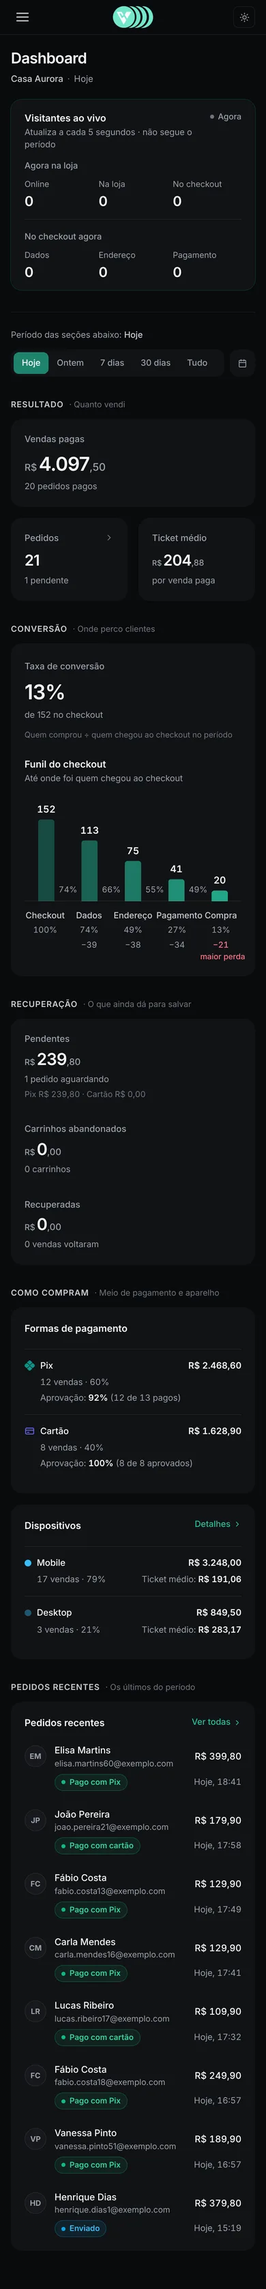
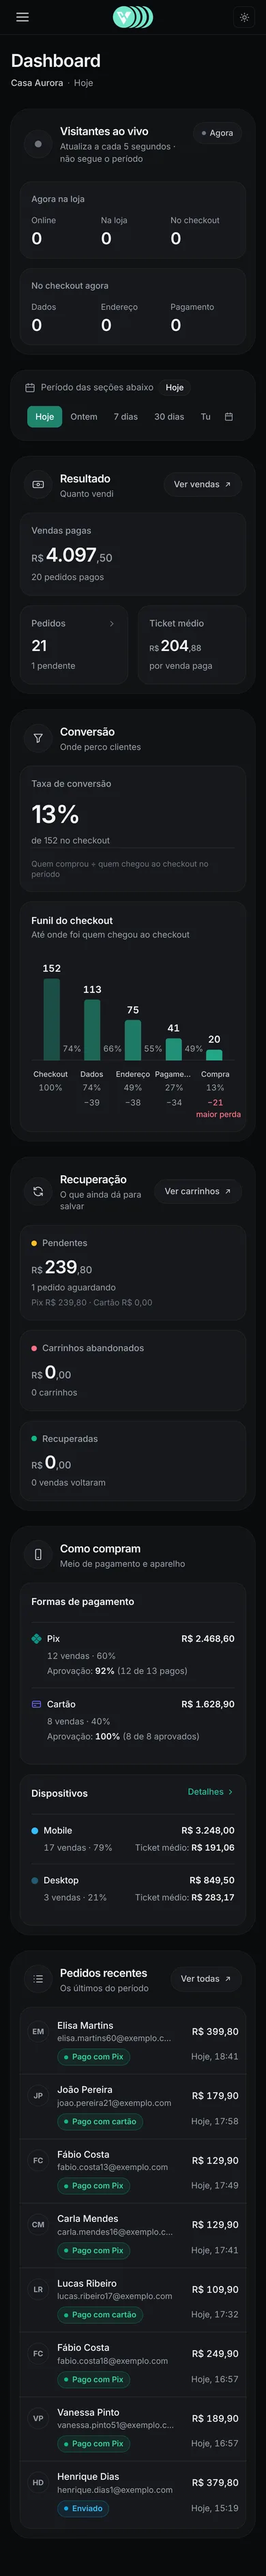
Dashboard do lojista: seções em caixas, com mais respiro
- Cada seção (Resultado, Conversão, Recuperação, Como compram, Pedidos
  recentes) vira uma caixa própria com ícone, título, pergunta e atalho
  (Ver vendas, Ver carrinhos, Ver todas); os cartões ficam aninhados
- Visitantes ao vivo e o filtro de período também em caixas
- Recuperação com marcador de cor por tipo (pendente, perdido, recuperado)
- Pedidos recentes sem título duplicado
- Respiro menor no celular para o funil caber sem sobrepor os nomes

Claude-Session: https://claude.ai/code/session_01Mj6yowmnasuG43TB7WhMV6

diff --git a/index.html b/index.html
@@ -38,7 +38,7 @@ main{padding:22px 28px 60px;min-width:0}
 <main><div class="top"><h1 id="t"></h1><span class="ver" id="v" hidden></span><span class="rota" id="r"></span><div class="nav"><button id="ant">← Anterior</button><button id="prox">Próxima →</button></div></div>
 <div class="shot" id="s"><img id="i" alt=""></div><div class="dica">Telas com chave na coluna têm duas versões: ligada mostra o layout novo, desligada o antigo. Para pedir um ajuste, diga o nome da tela e o que mudar.</div></main></div>
 <script>
-const D=[{"id": "painel-dashboard", "grupo": "Painel do lojista", "titulo": "Dashboard", "rota": "/painel", "img": "telas/painel-dashboard.webp", "w": 1440, "h": 2191, "mobile": false, "antigo": {"img": "telas/painel-dashboard-antigo.webp", "w": 1440, "h": 1708}}, {"id": "painel-inicio", "grupo": "Painel do lojista", "titulo": "Início", "rota": "/painel/inicio", "img": "telas/painel-inicio.webp", "w": 1440, "h": 1024, "mobile": false}, {"id": "painel-vendas", "grupo": "Painel do lojista", "titulo": "Vendas", "rota": "/painel/vendas", "img": "telas/painel-vendas.webp", "w": 1440, "h": 1024, "mobile": false}, {"id": "painel-carrinhos", "grupo": "Painel do lojista", "titulo": "Carrinhos abandonados", "rota": "/painel/carrinhos", "img": "telas/painel-carrinhos.webp", "w": 1440, "h": 1038, "mobile": false}, {"id": "painel-desempenho", "grupo": "Painel do lojista", "titulo": "Desempenho", "rota": "/painel/desempenho", "img": "telas/painel-desempenho.webp", "w": 1440, "h": 1024, "mobile": false}, {"id": "painel-dispositivos", "grupo": "Painel do lojista", "titulo": "Dispositivos", "rota": "/painel/dispositivos", "img": "telas/painel-dispositivos.webp", "w": 1440, "h": 1024, "mobile": false}, {"id": "painel-produtos", "grupo": "Painel do lojista", "titulo": "Produtos", "rota": "/painel/produtos", "img": "telas/painel-produtos.webp", "w": 1440, "h": 1024, "mobile": false}, {"id": "painel-criptografia", "grupo": "Painel do lojista", "titulo": "Criptografia", "rota": "/painel/criptografia", "img": "telas/painel-criptografia.webp", "w": 1440, "h": 1090, "mobile": false}, {"id": "painel-cupons", "grupo": "Painel do lojista", "titulo": "Cupons", "rota": "/painel/cupons", "img": "telas/painel-cupons.webp", "w": 1440, "h": 1024, "mobile": false}, {"id": "painel-order-bump", "grupo": "Painel do lojista", "titulo": "Order bump", "rota": "/painel/order-bump", "img": "telas/painel-order-bump.webp", "w": 1440, "h": 1024, "mobile": false}, {"id": "painel-provas-sociais", "grupo": "Painel do lojista", "titulo": "Provas sociais", "rota": "/painel/provas-sociais", "img": "telas/painel-provas-sociais.webp", "w": 1440, "h": 1024, "mobile": false}, {"id": "painel-personalizar", "grupo": "Painel do lojista", "titulo": "Personalizar checkout", "rota": "/painel/personalizar", "img": "telas/painel-personalizar.webp", "w": 1440, "h": 1024, "mobile": false}, {"id": "painel-pagamentos", "grupo": "Painel do lojista", "titulo": "Pagamentos", "rota": "/painel/pagamentos", "img": "telas/painel-pagamentos.webp", "w": 1440, "h": 1419, "mobile": false}, {"id": "painel-pixels", "grupo": "Painel do lojista", "titulo": "Pixels", "rota": "/painel/pixels", "img": "telas/painel-pixels.webp", "w": 1440, "h": 1024, "mobile": false}, {"id": "painel-emails", "grupo": "Painel do lojista", "titulo": "E-mails", "rota": "/painel/emails", "img": "telas/painel-emails.webp", "w": 1440, "h": 1715, "mobile": false}, {"id": "painel-webhooks", "grupo": "Painel do lojista", "titulo": "Webhooks", "rota": "/painel/webhooks", "img": "telas/painel-webhooks.webp", "w": 1440, "h": 1024, "mobile": false}, {"id": "painel-dominio", "grupo": "Painel do lojista", "titulo": "Domínio", "rota": "/painel/dominio", "img": "telas/painel-dominio.webp", "w": 1440, "h": 1024, "mobile": false}, {"id": "painel-shopify", "grupo": "Painel do lojista", "titulo": "Shopify", "rota": "/painel/shopify", "img": "telas/painel-shopify.webp", "w": 1440, "h": 1024, "mobile": false}, {"id": "painel-apps", "grupo": "Painel do lojista", "titulo": "Apps", "rota": "/painel/apps", "img": "telas/painel-apps.webp", "w": 1440, "h": 1024, "mobile": false}, {"id": "painel-taxas", "grupo": "Painel do lojista", "titulo": "Taxas", "rota": "/painel/taxas", "img": "telas/painel-taxas.webp", "w": 1440, "h": 1024, "mobile": false}, {"id": "painel-plano", "grupo": "Painel do lojista", "titulo": "Plano", "rota": "/painel/plano", "img": "telas/painel-plano.webp", "w": 1440, "h": 1024, "mobile": false}, {"id": "painel-seguranca", "grupo": "Painel do lojista", "titulo": "Segurança", "rota": "/painel/seguranca", "img": "telas/painel-seguranca.webp", "w": 1440, "h": 2548, "mobile": false}, {"id": "painel-configuracoes", "grupo": "Painel do lojista", "titulo": "Configurações", "rota": "/painel/configuracoes", "img": "telas/painel-configuracoes.webp", "w": 1440, "h": 1024, "mobile": false}, {"id": "painel-detalhe-venda", "grupo": "Painel do lojista", "titulo": "Detalhe da venda", "rota": "/painel/vendas/101044fc-720e-4f02-a70a-a1bbfcc3d4ec", "img": "telas/painel-detalhe-venda.webp", "w": 1440, "h": 1024, "mobile": false}, {"id": "painel-caixa-de-emails", "grupo": "Painel do lojista", "titulo": "Caixa de e-mails", "rota": "/painel/emails/caixa", "img": "telas/painel-caixa-de-emails.webp", "w": 1440, "h": 1090, "mobile": false}, {"id": "admin-visao-geral", "grupo": "Admin da plataforma", "titulo": "Visão geral", "rota": "/admin", "img": "telas/admin-inicio.webp", "w": 1440, "h": 1430, "mobile": false}, {"id": "admin-lojas", "grupo": "Admin da plataforma", "titulo": "Lojas", "rota": "/admin/lojas", "img": "telas/admin-lojas.webp", "w": 1440, "h": 900, "mobile": false}, {"id": "admin-usuarios", "grupo": "Admin da plataforma", "titulo": "Usuários", "rota": "/admin/usuarios", "img": "telas/admin-usuarios.webp", "w": 1440, "h": 900, "mobile": false}, {"id": "admin-clientes", "grupo": "Admin da plataforma", "titulo": "Clientes", "rota": "/admin/clientes", "img": "telas/admin-clientes.webp", "w": 1440, "h": 1958, "mobile": false}, {"id": "admin-transacoes", "grupo": "Admin da plataforma", "titulo": "Transações", "rota": "/admin/transacoes", "img": "telas/admin-transacoes.webp", "w": 1440, "h": 1994, "mobile": false}, {"id": "admin-taxas", "grupo": "Admin da plataforma", "titulo": "Taxas", "rota": "/admin/taxas", "img": "telas/admin-taxas.webp", "w": 1440, "h": 900, "mobile": false}, {"id": "admin-assinaturas", "grupo": "Admin da plataforma", "titulo": "Assinaturas", "rota": "/admin/assinaturas", "img": "telas/admin-assinaturas.webp", "w": 1440, "h": 900, "mobile": false}, {"id": "admin-relatorios", "grupo": "Admin da plataforma", "titulo": "Relatórios", "rota": "/admin/relatorios", "img": "telas/admin-relatorios.webp", "w": 1440, "h": 907, "mobile": false}, {"id": "admin-emails", "grupo": "Admin da plataforma", "titulo": "E-mails", "rota": "/admin/emails", "img": "telas/admin-emails.webp", "w": 1440, "h": 900, "mobile": false}, {"id": "admin-configuracoes", "grupo": "Admin da plataforma", "titulo": "Configurações", "rota": "/admin/configuracoes", "img": "telas/admin-configuracoes.webp", "w": 1440, "h": 1286, "mobile": false}, {"id": "celular-dashboard", "grupo": "Painel no celular", "titulo": "Dashboard", "rota": "/painel", "img": "telas/celular-dashboard.webp", "w": 390, "h": 3355, "mobile": true, "antigo": {"img": "telas/celular-dashboard-antigo.webp", "w": 390, "h": 2945}}, {"id": "celular-inicio", "grupo": "Painel no celular", "titulo": "Início", "rota": "/painel/inicio", "img": "telas/celular-inicio.webp", "w": 390, "h": 2208, "mobile": true}, {"id": "celular-vendas", "grupo": "Painel no celular", "titulo": "Vendas", "rota": "/painel/vendas", "img": "telas/celular-vendas.webp", "w": 390, "h": 1410, "mobile": true}, {"id": "acesso-login", "grupo": "Acesso", "titulo": "Login", "rota": "/login", "img": "telas/acesso-login.webp", "w": 1440, "h": 900, "mobile": false}];
+const D=[{"id": "painel-dashboard", "grupo": "Painel do lojista", "titulo": "Dashboard", "rota": "/painel", "img": "telas/painel-dashboard.webp", "w": 1440, "h": 2681, "mobile": false, "antigo": {"img": "telas/painel-dashboard-antigo.webp", "w": 1440, "h": 1708}}, {"id": "painel-inicio", "grupo": "Painel do lojista", "titulo": "Início", "rota": "/painel/inicio", "img": "telas/painel-inicio.webp", "w": 1440, "h": 1024, "mobile": false}, {"id": "painel-vendas", "grupo": "Painel do lojista", "titulo": "Vendas", "rota": "/painel/vendas", "img": "telas/painel-vendas.webp", "w": 1440, "h": 1024, "mobile": false}, {"id": "painel-carrinhos", "grupo": "Painel do lojista", "titulo": "Carrinhos abandonados", "rota": "/painel/carrinhos", "img": "telas/painel-carrinhos.webp", "w": 1440, "h": 1038, "mobile": false}, {"id": "painel-desempenho", "grupo": "Painel do lojista", "titulo": "Desempenho", "rota": "/painel/desempenho", "img": "telas/painel-desempenho.webp", "w": 1440, "h": 1024, "mobile": false}, {"id": "painel-dispositivos", "grupo": "Painel do lojista", "titulo": "Dispositivos", "rota": "/painel/dispositivos", "img": "telas/painel-dispositivos.webp", "w": 1440, "h": 1024, "mobile": false}, {"id": "painel-produtos", "grupo": "Painel do lojista", "titulo": "Produtos", "rota": "/painel/produtos", "img": "telas/painel-produtos.webp", "w": 1440, "h": 1024, "mobile": false}, {"id": "painel-criptografia", "grupo": "Painel do lojista", "titulo": "Criptografia", "rota": "/painel/criptografia", "img": "telas/painel-criptografia.webp", "w": 1440, "h": 1090, "mobile": false}, {"id": "painel-cupons", "grupo": "Painel do lojista", "titulo": "Cupons", "rota": "/painel/cupons", "img": "telas/painel-cupons.webp", "w": 1440, "h": 1024, "mobile": false}, {"id": "painel-order-bump", "grupo": "Painel do lojista", "titulo": "Order bump", "rota": "/painel/order-bump", "img": "telas/painel-order-bump.webp", "w": 1440, "h": 1024, "mobile": false}, {"id": "painel-provas-sociais", "grupo": "Painel do lojista", "titulo": "Provas sociais", "rota": "/painel/provas-sociais", "img": "telas/painel-provas-sociais.webp", "w": 1440, "h": 1024, "mobile": false}, {"id": "painel-personalizar", "grupo": "Painel do lojista", "titulo": "Personalizar checkout", "rota": "/painel/personalizar", "img": "telas/painel-personalizar.webp", "w": 1440, "h": 1024, "mobile": false}, {"id": "painel-pagamentos", "grupo": "Painel do lojista", "titulo": "Pagamentos", "rota": "/painel/pagamentos", "img": "telas/painel-pagamentos.webp", "w": 1440, "h": 1419, "mobile": false}, {"id": "painel-pixels", "grupo": "Painel do lojista", "titulo": "Pixels", "rota": "/painel/pixels", "img": "telas/painel-pixels.webp", "w": 1440, "h": 1024, "mobile": false}, {"id": "painel-emails", "grupo": "Painel do lojista", "titulo": "E-mails", "rota": "/painel/emails", "img": "telas/painel-emails.webp", "w": 1440, "h": 1715, "mobile": false}, {"id": "painel-webhooks", "grupo": "Painel do lojista", "titulo": "Webhooks", "rota": "/painel/webhooks", "img": "telas/painel-webhooks.webp", "w": 1440, "h": 1024, "mobile": false}, {"id": "painel-dominio", "grupo": "Painel do lojista", "titulo": "Domínio", "rota": "/painel/dominio", "img": "telas/painel-dominio.webp", "w": 1440, "h": 1024, "mobile": false}, {"id": "painel-shopify", "grupo": "Painel do lojista", "titulo": "Shopify", "rota": "/painel/shopify", "img": "telas/painel-shopify.webp", "w": 1440, "h": 1024, "mobile": false}, {"id": "painel-apps", "grupo": "Painel do lojista", "titulo": "Apps", "rota": "/painel/apps", "img": "telas/painel-apps.webp", "w": 1440, "h": 1024, "mobile": false}, {"id": "painel-taxas", "grupo": "Painel do lojista", "titulo": "Taxas", "rota": "/painel/taxas", "img": "telas/painel-taxas.webp", "w": 1440, "h": 1024, "mobile": false}, {"id": "painel-plano", "grupo": "Painel do lojista", "titulo": "Plano", "rota": "/painel/plano", "img": "telas/painel-plano.webp", "w": 1440, "h": 1024, "mobile": false}, {"id": "painel-seguranca", "grupo": "Painel do lojista", "titulo": "Segurança", "rota": "/painel/seguranca", "img": "telas/painel-seguranca.webp", "w": 1440, "h": 2548, "mobile": false}, {"id": "painel-configuracoes", "grupo": "Painel do lojista", "titulo": "Configurações", "rota": "/painel/configuracoes", "img": "telas/painel-configuracoes.webp", "w": 1440, "h": 1024, "mobile": false}, {"id": "painel-detalhe-venda", "grupo": "Painel do lojista", "titulo": "Detalhe da venda", "rota": "/painel/vendas/101044fc-720e-4f02-a70a-a1bbfcc3d4ec", "img": "telas/painel-detalhe-venda.webp", "w": 1440, "h": 1024, "mobile": false}, {"id": "painel-caixa-de-emails", "grupo": "Painel do lojista", "titulo": "Caixa de e-mails", "rota": "/painel/emails/caixa", "img": "telas/painel-caixa-de-emails.webp", "w": 1440, "h": 1090, "mobile": false}, {"id": "admin-visao-geral", "grupo": "Admin da plataforma", "titulo": "Visão geral", "rota": "/admin", "img": "telas/admin-inicio.webp", "w": 1440, "h": 1430, "mobile": false}, {"id": "admin-lojas", "grupo": "Admin da plataforma", "titulo": "Lojas", "rota": "/admin/lojas", "img": "telas/admin-lojas.webp", "w": 1440, "h": 900, "mobile": false}, {"id": "admin-usuarios", "grupo": "Admin da plataforma", "titulo": "Usuários", "rota": "/admin/usuarios", "img": "telas/admin-usuarios.webp", "w": 1440, "h": 900, "mobile": false}, {"id": "admin-clientes", "grupo": "Admin da plataforma", "titulo": "Clientes", "rota": "/admin/clientes", "img": "telas/admin-clientes.webp", "w": 1440, "h": 1958, "mobile": false}, {"id": "admin-transacoes", "grupo": "Admin da plataforma", "titulo": "Transações", "rota": "/admin/transacoes", "img": "telas/admin-transacoes.webp", "w": 1440, "h": 1994, "mobile": false}, {"id": "admin-taxas", "grupo": "Admin da plataforma", "titulo": "Taxas", "rota": "/admin/taxas", "img": "telas/admin-taxas.webp", "w": 1440, "h": 900, "mobile": false}, {"id": "admin-assinaturas", "grupo": "Admin da plataforma", "titulo": "Assinaturas", "rota": "/admin/assinaturas", "img": "telas/admin-assinaturas.webp", "w": 1440, "h": 900, "mobile": false}, {"id": "admin-relatorios", "grupo": "Admin da plataforma", "titulo": "Relatórios", "rota": "/admin/relatorios", "img": "telas/admin-relatorios.webp", "w": 1440, "h": 907, "mobile": false}, {"id": "admin-emails", "grupo": "Admin da plataforma", "titulo": "E-mails", "rota": "/admin/emails", "img": "telas/admin-emails.webp", "w": 1440, "h": 900, "mobile": false}, {"id": "admin-configuracoes", "grupo": "Admin da plataforma", "titulo": "Configurações", "rota": "/admin/configuracoes", "img": "telas/admin-configuracoes.webp", "w": 1440, "h": 1286, "mobile": false}, {"id": "celular-dashboard", "grupo": "Painel no celular", "titulo": "Dashboard", "rota": "/painel", "img": "telas/celular-dashboard.webp", "w": 390, "h": 3775, "mobile": true, "antigo": {"img": "telas/celular-dashboard-antigo.webp", "w": 390, "h": 2945}}, {"id": "celular-inicio", "grupo": "Painel no celular", "titulo": "Início", "rota": "/painel/inicio", "img": "telas/celular-inicio.webp", "w": 390, "h": 2208, "mobile": true}, {"id": "celular-vendas", "grupo": "Painel no celular", "titulo": "Vendas", "rota": "/painel/vendas", "img": "telas/celular-vendas.webp", "w": 390, "h": 1410, "mobile": true}, {"id": "acesso-login", "grupo": "Acesso", "titulo": "Login", "rota": "/login", "img": "telas/acesso-login.webp", "w": 1440, "h": 900, "mobile": false}];
 const st={};D.forEach(d=>{if(d.antigo)st[d.id]=true});
 try{const s=JSON.parse(localStorage.getItem('voxdash-layout')||'{}');for(const k in s)if(k in st)st[k]=!!s[k]}catch(e){}
 function save(){try{localStorage.setItem('voxdash-layout',JSON.stringify(st))}catch(e){}}

diff --git a/src/components/painel/dashboard/DashboardView.tsx b/src/components/painel/dashboard/DashboardView.tsx
@@ -59,11 +59,11 @@ export default function DashboardView({ data }: { data: DashboardData }) {
 
   return (
     <PeriodTransition>
-      <div className="animate-fade-up">
+      <div className="animate-fade-up space-y-6">
         <ReconcileOnMount />
 
-        <header className="pb-5">
-          <h1 className="text-[22px] font-semibold tracking-tight text-hi">Dashboard</h1>
+        <header className="pb-1">
+          <h1 className="text-[26px] font-semibold tracking-tight text-hi">Dashboard</h1>
           <p className="mt-1 truncate text-[13px] text-low">
             <span className="font-medium text-mid">{data.storeName}</span>
             <span aria-hidden className="mx-1.5 text-dim">·</span>
@@ -74,16 +74,18 @@ export default function DashboardView({ data }: { data: DashboardData }) {
         {/* ── Agora ── */}
         <LiveVisitors variant="strip" />
 
-        {/* ── Filtro de período: governa todas as seções abaixo ── */}
-        <div className="mt-8 flex flex-wrap items-center justify-between gap-x-6 gap-y-3 border-t border-line pt-6">
-          <p className="text-[12.5px] text-low">
-            Período das seções abaixo: <span className="font-medium text-mid">{data.period.label}</span>
+        {/* ── Filtro de período: governa todas as caixas abaixo ── */}
+        <div className="flex flex-wrap items-center justify-between gap-x-6 gap-y-3 rounded-[22px] bg-card px-5 py-3.5 ring-1 ring-line">
+          <p className="flex items-center gap-2 text-[13px] text-low">
+            <Icon name="calendar" />
+            Período das seções abaixo
+            <span className="rounded-full bg-soft px-2.5 py-0.5 text-[12px] font-medium text-hi ring-1 ring-line">{data.period.label}</span>
           </p>
           <PeriodControl active={data.period.key} from={data.period.from} to={data.period.to} />
         </div>
 
         {/* ── Resultado ── */}
-        <Section title="Resultado" question="Quanto vendi">
+        <Box icon="cash" title="Resultado" question="Quanto vendi" link={{ href: "/painel/vendas", label: "Ver vendas" }}>
           <PendingArea>
             <div className="grid grid-cols-2 gap-4 md:grid-cols-[minmax(0,1.6fr)_minmax(0,1fr)_minmax(0,1fr)]">
               <Kpi
@@ -106,64 +108,67 @@ export default function DashboardView({ data }: { data: DashboardData }) {
               />
             </div>
           </PendingArea>
-        </Section>
+        </Box>
 
         {/* ── Conversão: a taxa ao lado do funil que a explica ── */}
-        <Section title="Conversão" question="Onde perco clientes">
+        <Box icon="funnel" title="Conversão" question="Onde perco clientes">
           <PendingArea>
-            <section className="grid min-w-0 gap-6 rounded-2xl bg-card p-5 lg:grid-cols-[200px_minmax(0,1fr)]">
-              <div className="min-w-0 lg:border-r lg:border-line lg:pr-6">
+            <div className="grid gap-4 lg:grid-cols-[230px_minmax(0,1fr)]">
+              <div className="flex min-w-0 flex-col rounded-2xl bg-soft p-4 ring-1 ring-line sm:p-5">
                 <span className="text-[13px] font-medium text-low" title="Quem comprou ÷ quem chegou ao checkout no período">
                   Taxa de conversão
                 </span>
-                <div className="mt-3 whitespace-nowrap text-[30px] font-semibold leading-none tracking-[-0.025em] text-hi">
+                <div className="mt-4 whitespace-nowrap text-[36px] font-semibold leading-none tracking-[-0.03em] text-hi">
                   {conversion === null ? "—" : <AnimatedNumber value={conversion} format="pct" />}
                 </div>
-                <p className="mt-2.5 text-[12.5px] text-low">{base > 0 ? `de ${base} no checkout` : "Nenhum checkout"}</p>
-                <p className="mt-3 text-[11.5px] leading-snug text-dim">Quem comprou ÷ quem chegou ao checkout no período</p>
+                <p className="mt-3 text-[12.5px] text-low">{base > 0 ? `de ${base} no checkout` : "Nenhum checkout"}</p>
+                <p className="mt-auto border-t border-line pt-4 text-[11.5px] leading-snug text-dim">
+                  Quem comprou ÷ quem chegou ao checkout no período
+                </p>
               </div>
-              <div className="min-w-0">
-                <h2 className="text-[14px] font-semibold text-hi">Funil do checkout</h2>
+              <div className="min-w-0 rounded-2xl bg-soft p-4 ring-1 ring-line sm:p-5">
+                <h3 className="text-[14px] font-semibold text-hi">Funil do checkout</h3>
                 <p className="mt-0.5 text-[12.5px] text-low">Até onde foi quem chegou ao checkout</p>
-                <div className="mt-5">
+                <div className="mt-6">
                   <Funnel stages={data.funnel} />
                   {base === 0 && <p className="mt-4 text-[12.5px] text-low">Nenhum checkout iniciado no período.</p>}
                 </div>
               </div>
-            </section>
+            </div>
           </PendingArea>
-        </Section>
+        </Box>
 
         {/* ── Recuperação: dinheiro parado e o que voltou ── */}
-        <Section title="Recuperação" question="O que ainda dá para salvar">
+        <Box icon="refresh" title="Recuperação" question="O que ainda dá para salvar" link={{ href: "/painel/carrinhos", label: "Ver carrinhos" }}>
           <PendingArea>
-            <section className="rounded-2xl bg-card p-5">
-              <h2 className="sr-only">Recuperação de vendas</h2>
-              <div className="grid gap-x-10 gap-y-8 md:grid-cols-3">
-                <Recovery
-                  title="Pendentes"
-                  cents={pending.cents}
-                  note={`${pending.count} ${plural(pending.count, "pedido aguardando", "pedidos aguardando")}`}
-                  detail={pending.count > 0 ? `Pix ${brl(pending.pixCents)} · Cartão ${brl(pending.cardCents)}` : undefined}
-                />
-                <Recovery
-                  title="Carrinhos abandonados"
-                  cents={abandoned.cents}
-                  note={`${abandoned.count} ${plural(abandoned.count, "carrinho", "carrinhos")}`}
-                />
-                <Recovery
-                  title="Recuperadas"
-                  cents={recovered.cents}
-                  note={`${recovered.count} ${plural(recovered.count, "venda voltou", "vendas voltaram")}`}
-                  detail={recovered.count > 0 ? `De carrinho ${brl(recovered.cartCents)} · De Pix ${brl(recovered.pixCents)}` : undefined}
-                />
-              </div>
-            </section>
+            <h3 className="sr-only">Recuperação de vendas</h3>
+            <div className="grid gap-4 md:grid-cols-3">
+              <Recovery
+                title="Pendentes"
+                tone="warn"
+                cents={pending.cents}
+                note={`${pending.count} ${plural(pending.count, "pedido aguardando", "pedidos aguardando")}`}
+                detail={pending.count > 0 ? `Pix ${brl(pending.pixCents)} · Cartão ${brl(pending.cardCents)}` : undefined}
+              />
+              <Recovery
+                title="Carrinhos abandonados"
+                tone="lost"
+                cents={abandoned.cents}
+                note={`${abandoned.count} ${plural(abandoned.count, "carrinho", "carrinhos")}`}
+              />
+              <Recovery
+                title="Recuperadas"
+                tone="ok"
+                cents={recovered.cents}
+                note={`${recovered.count} ${plural(recovered.count, "venda voltou", "vendas voltaram")}`}
+                detail={recovered.count > 0 ? `De carrinho ${brl(recovered.cartCents)} · De Pix ${brl(recovered.pixCents)}` : undefined}
+              />
+            </div>
           </PendingArea>
-        </Section>
+        </Box>
 
         {/* ── Como compram: meio de pagamento e aparelho ── */}
-        <Section title="Como compram" question="Meio de pagamento e aparelho">
+        <Box icon="device" title="Como compram" question="Meio de pagamento e aparelho">
           <PendingArea>
             <div className="grid gap-4 xl:grid-cols-2">
               <Card title="Formas de pagamento">
@@ -201,14 +206,16 @@ export default function DashboardView({ data }: { data: DashboardData }) {
               </Card>
             </div>
           </PendingArea>
-        </Section>
+        </Box>
 
         {/* ── Últimos pedidos ── */}
-        <Section title="Pedidos recentes" question="Os últimos do período">
+        <Box icon="list" title="Pedidos recentes" question="Os últimos do período" link={{ href: "/painel/vendas", label: "Ver todas" }}>
           <PendingArea>
-            <RecentOrders orders={data.recent} />
+            <div className="rounded-2xl bg-soft px-1.5 py-1 ring-1 ring-line sm:px-3">
+              <RecentOrders orders={data.recent} bare />
+            </div>
           </PendingArea>
-        </Section>
+        </Box>
       </div>
     </PeriodTransition>
   );
@@ -217,16 +224,63 @@ export default function DashboardView({ data }: { data: DashboardData }) {
 const brlFmt = new Intl.NumberFormat("pt-BR", { style: "currency", currency: "BRL" });
 const brl = (cents: number) => brlFmt.format(cents / 100);
 
-/** Cabeçalho de seção: nome + a pergunta que ela responde. */
-function Section({ title, question, children }: { title: string; question: string; children: React.ReactNode }) {
+const ICONS: Record<string, React.ReactNode> = {
+  calendar: <><rect x="3" y="5" width="18" height="16" rx="2" /><path d="M16 3v4M8 3v4M3 11h18" /></>,
+  cash: <><rect x="2" y="6" width="20" height="12" rx="2" /><circle cx="12" cy="12" r="2.5" /><path d="M6 12h.01M18 12h.01" /></>,
+  funnel: <path d="M4 4h16l-6 8v6l-4 2v-8z" />,
+  refresh: <><path d="M20 11A8 8 0 0 0 6.3 6.3L4 8.5" /><path d="M4 4v4.5h4.5" /><path d="M4 13a8 8 0 0 0 13.7 4.7L20 15.5" /><path d="M20 20v-4.5h-4.5" /></>,
+  device: <><rect x="7" y="2" width="10" height="20" rx="2" /><path d="M11 18h2" /></>,
+  list: <path d="M9 6h11M9 12h11M9 18h11M4 6h.01M4 12h.01M4 18h.01" />,
+};
+
+function Icon({ name, size = 16 }: { name: string; size?: number }) {
   return (
-    <div className="mt-8">
-      <div className="mb-3 flex items-baseline gap-2">
-        <h2 className="text-[12px] font-semibold uppercase tracking-[0.06em] text-mid">{title}</h2>
-        <span className="text-[12px] text-dim">· {question}</span>
+    <svg width={size} height={size} viewBox="0 0 24 24" fill="none" stroke="currentColor" strokeWidth="1.8" strokeLinecap="round" strokeLinejoin="round" aria-hidden className="shrink-0">
+      {ICONS[name]}
+    </svg>
+  );
+}
+
+/** Caixa de seção: um bloco por assunto, com cabeçalho próprio e os cartões dentro. */
+function Box({
+  icon,
+  title,
+  question,
+  link,
+  children,
+}: {
+  icon: string;
+  title: string;
+  question: string;
+  link?: { href: string; label: string };
+  children: React.ReactNode;
+}) {
+  return (
+    <section className="min-w-0 rounded-[28px] bg-card p-3.5 ring-1 ring-line sm:p-6 lg:p-7">
+      <div className="mb-5 flex items-center justify-between gap-4 px-1.5 pt-1.5 sm:mb-6 sm:px-0 sm:pt-0">
+        <div className="flex min-w-0 items-center gap-3">
+          <span className="grid h-10 w-10 shrink-0 place-items-center rounded-full bg-soft text-mid ring-1 ring-line">
+            <Icon name={icon} size={18} />
+          </span>
+          <div className="min-w-0">
+            <h2 className="text-[16px] font-semibold tracking-tight text-hi">{title}</h2>
+            <p className="mt-0.5 text-[12.5px] leading-snug text-low">{question}</p>
+          </div>
+        </div>
+        {link && (
+          <Link
+            href={link.href}
+            className="inline-flex shrink-0 items-center gap-1.5 rounded-full bg-soft px-3.5 py-2 text-[12.5px] font-medium text-mid ring-1 ring-line transition-colors hover:text-hi focus-visible:outline-none focus-visible:ring-2 focus-visible:ring-brand/40"
+          >
+            {link.label}
+            <svg width="12" height="12" viewBox="0 0 24 24" fill="none" stroke="currentColor" strokeWidth="2.2" strokeLinecap="round" strokeLinejoin="round" aria-hidden>
+              <path d="M7 17L17 7M9 7h8v8" />
+            </svg>
+          </Link>
+        )}
       </div>
       {children}
-    </div>
+    </section>
   );
 }
 
@@ -245,7 +299,7 @@ function Card({
   children: React.ReactNode;
 }) {
   return (
-    <section className={`flex min-w-0 flex-col rounded-2xl bg-card p-5 ${className}`}>
+    <section className={`flex min-w-0 flex-col rounded-2xl bg-soft p-4 ring-1 ring-line sm:p-5 ${className}`}>
       <div className="flex items-start justify-between gap-3">
         <div className="min-w-0">
           <h2 className="text-[14px] font-semibold text-hi">{title}</h2>
@@ -294,12 +348,12 @@ function Kpi({
       <div className="mt-2.5 truncate text-[12.5px] text-low">{note}</div>
     </>
   );
-  const cls = `group block min-w-0 rounded-2xl bg-card p-5 ${className}`;
+  const cls = `group block min-w-0 rounded-2xl bg-soft p-4 ring-1 ring-line sm:p-5 ${className}`;
   if (href) {
     return (
       <Link
         href={href}
-        className={`${cls} transition-colors duration-150 hover:bg-soft focus-visible:outline-none focus-visible:ring-2 focus-visible:ring-brand/40`}
+        className={`${cls} transition-colors duration-150 hover:ring-line-strong focus-visible:outline-none focus-visible:ring-2 focus-visible:ring-brand/40`}
       >
         {body}
       </Link>
@@ -314,8 +368,10 @@ function Recovery({
   cents,
   note,
   detail,
+  tone = "ok",
   link,
 }: {
+  tone?: "warn" | "lost" | "ok";
   title: string;
   cents: number;
   note: string;
@@ -323,9 +379,12 @@ function Recovery({
   link?: { href: string; label: string };
 }) {
   return (
-    <div className="flex min-w-0 flex-col">
-      <h3 className="text-[13px] font-medium text-low">{title}</h3>
-      <p className="mt-2 whitespace-nowrap text-[24px] font-semibold leading-none tracking-[-0.025em] text-hi">
+    <div className="flex min-w-0 flex-col rounded-2xl bg-soft p-4 ring-1 ring-line sm:p-5">
+      <h3 className="flex items-center gap-2 text-[13px] font-medium text-low">
+        <span aria-hidden className={`h-2 w-2 rounded-full ${tone === "warn" ? "bg-amber-400" : tone === "lost" ? "bg-rose-400" : "bg-emerald-500"}`} />
+        {title}
+      </h3>
+      <p className="mt-3 whitespace-nowrap text-[26px] font-semibold leading-none tracking-[-0.025em] text-hi">
         <AnimatedNumber value={cents} format="brl" display />
       </p>
       <p className="mt-2 text-[12.5px] text-low">{note}</p>

diff --git a/src/components/painel/LiveVisitors.tsx b/src/components/painel/LiveVisitors.tsx
@@ -62,34 +62,39 @@ export default function LiveVisitors({ className = "", variant = "card" }: { cla
 
   if (variant === "strip") {
     return (
-      <section className={`min-w-0 rounded-2xl bg-card px-5 py-4 ring-1 ring-emerald-500/20 ${className}`} aria-label="Visitantes ao vivo">
-        <div className="mb-3 flex items-start justify-between gap-3">
-          <div className="min-w-0">
-            <h2 className="text-[14px] font-semibold text-hi">Visitantes ao vivo</h2>
-            <p className="mt-0.5 text-[12.5px] text-low">Atualiza a cada 5 segundos · não segue o período</p>
+      <section className={`min-w-0 rounded-[28px] bg-card p-3.5 ring-1 ring-line sm:p-6 lg:p-7 ${className}`} aria-label="Visitantes ao vivo">
+        <div className="flex items-start justify-between gap-4 px-1.5 pt-1.5 sm:px-0 sm:pt-0">
+          <div className="flex min-w-0 items-center gap-3">
+            <span aria-hidden className="grid h-10 w-10 shrink-0 place-items-center rounded-full bg-soft ring-1 ring-line">
+              <span className={`h-2.5 w-2.5 rounded-full ${online > 0 ? "bg-emerald-500" : "bg-dim"}`} />
+            </span>
+            <div className="min-w-0">
+              <h2 className="text-[16px] font-semibold tracking-tight text-hi">Visitantes ao vivo</h2>
+              <p className="mt-0.5 text-[12.5px] text-low">Atualiza a cada 5 segundos · não segue o período</p>
+            </div>
           </div>
-          <span className="flex shrink-0 items-center gap-1.5 text-[12px] font-medium text-low">
+          <span className="flex shrink-0 items-center gap-1.5 rounded-full bg-soft px-3 py-1.5 text-[12px] font-medium text-mid ring-1 ring-line">
             <span aria-hidden className={`h-1.5 w-1.5 rounded-full ${online > 0 ? "bg-emerald-500" : "bg-dim"}`} />
             Agora
           </span>
         </div>
-        <div className="grid gap-x-8 gap-y-4 md:grid-cols-[minmax(0,1fr)_minmax(0,1fr)]">
-          <div className="min-w-0">
+        <div className="mt-6 grid gap-4 md:grid-cols-2">
+          <div className="min-w-0 rounded-2xl bg-soft p-4 ring-1 ring-line sm:p-5">
             <h3 className="text-[12.5px] font-medium text-low">Agora na loja</h3>
-            <dl className="mt-2 grid grid-cols-3 gap-2">
-              <LiveFigure size="sm" label="Online" value={online} loading={loading} />
-              <LiveFigure size="sm" label="Na loja" value={loja} loading={loading} share={online > 0 ? share(loja) : null} />
-              <LiveFigure size="sm" label="No checkout" value={checkout} loading={loading} share={online > 0 ? share(checkout) : null} />
+            <dl className="mt-3 grid grid-cols-3 gap-2">
+              <LiveFigure label="Online" value={online} loading={loading} />
+              <LiveFigure label="Na loja" value={loja} loading={loading} share={online > 0 ? share(loja) : null} />
+              <LiveFigure label="No checkout" value={checkout} loading={loading} share={online > 0 ? share(checkout) : null} />
             </dl>
           </div>
-          <div className="min-w-0 border-t border-line pt-4 md:border-l md:border-t-0 md:pl-8 md:pt-0">
+          <div className="min-w-0 rounded-2xl bg-soft p-4 ring-1 ring-line sm:p-5">
             <h3 className="flex items-baseline justify-between gap-2 text-[12.5px] font-medium text-low">
               No checkout agora
               <span className="hidden text-[11.5px] font-normal text-dim sm:inline">mesmas etapas do funil</span>
             </h3>
-            <dl className="mt-2 grid grid-cols-3 gap-2">
+            <dl className="mt-3 grid grid-cols-3 gap-2">
               {steps.map((s) => (
-                <LiveFigure size="sm" key={s.label} label={s.label} value={s.n} loading={loading} share={checkout > 0 ? inCheckout(s.n) : null} />
+                <LiveFigure key={s.label} label={s.label} value={s.n} loading={loading} share={checkout > 0 ? inCheckout(s.n) : null} />
               ))}
             </dl>
           </div>

diff --git a/src/components/painel/dashboard/RecentOrders.tsx b/src/components/painel/dashboard/RecentOrders.tsx
@@ -45,20 +45,24 @@ function when(value: Date | string) {
 }
 
 // Últimos pedidos do período. Cada linha abre o pedido.
-export default function RecentOrders({ orders }: { orders: RecentOrder[] }) {
+// `bare`: sem cartão nem cabeçalho próprios — usado dentro da caixa da seção
+// "Pedidos recentes" do dashboard, que já traz o título e o "Ver todas".
+export default function RecentOrders({ orders, bare = false }: { orders: RecentOrder[]; bare?: boolean }) {
   return (
-    <section className="rounded-2xl bg-card">
-      <div className="flex items-center justify-between gap-3 px-5 pb-2 pt-5">
-        <h2 className="text-[14px] font-semibold text-hi">Pedidos recentes</h2>
-        <TextLink href="/painel/vendas">Ver todas</TextLink>
-      </div>
+    <section className={bare ? "-mx-2" : "rounded-2xl bg-card"}>
+      {!bare && (
+        <div className="flex items-center justify-between gap-3 px-5 pb-2 pt-5">
+          <h2 className="text-[14px] font-semibold text-hi">Pedidos recentes</h2>
+          <TextLink href="/painel/vendas">Ver todas</TextLink>
+        </div>
+      )}
 
       {orders.length === 0 ? (
-        <p className="px-5 pb-6 pt-3 text-[12.5px] text-low">
+        <p className={`${bare ? "px-2 py-3" : "px-5 pb-6 pt-3"} text-[12.5px] text-low`}>
           Nenhum pedido no período. Eles aparecem aqui assim que chegarem.
         </p>
       ) : (
-        <ul className="px-2 pb-2">
+        <ul className={bare ? "divide-y divide-line" : "px-2 pb-2"}>
           {orders.map((o) => {
             const st = orderStatusBadge(o.status, o.paymentMethod);
             return (

diff --git a/src/components/painel/dashboard/Viz.tsx b/src/components/painel/dashboard/Viz.tsx
@@ -221,7 +221,7 @@ export function Funnel({ stages }: { stages: FunnelStage[] }) {
       <div className="mt-3 grid gap-x-1" style={cols} aria-hidden>
         {steps.map((s, i) => (
           <div key={s.label} className="min-w-0 text-center" title={s.label}>
-            <div className="whitespace-nowrap text-[12.5px] font-medium text-mid">{s.short ?? s.label}</div>
+            <div className="truncate text-[11px] font-medium text-mid sm:text-[12.5px]">{s.short ?? s.label}</div>
             <div className="mt-0.5 text-[12px] tabular-nums text-low">
               {base > 0 ? <AnimatedNumber value={s.pct} format="pct" /> : "—"}
             </div>
